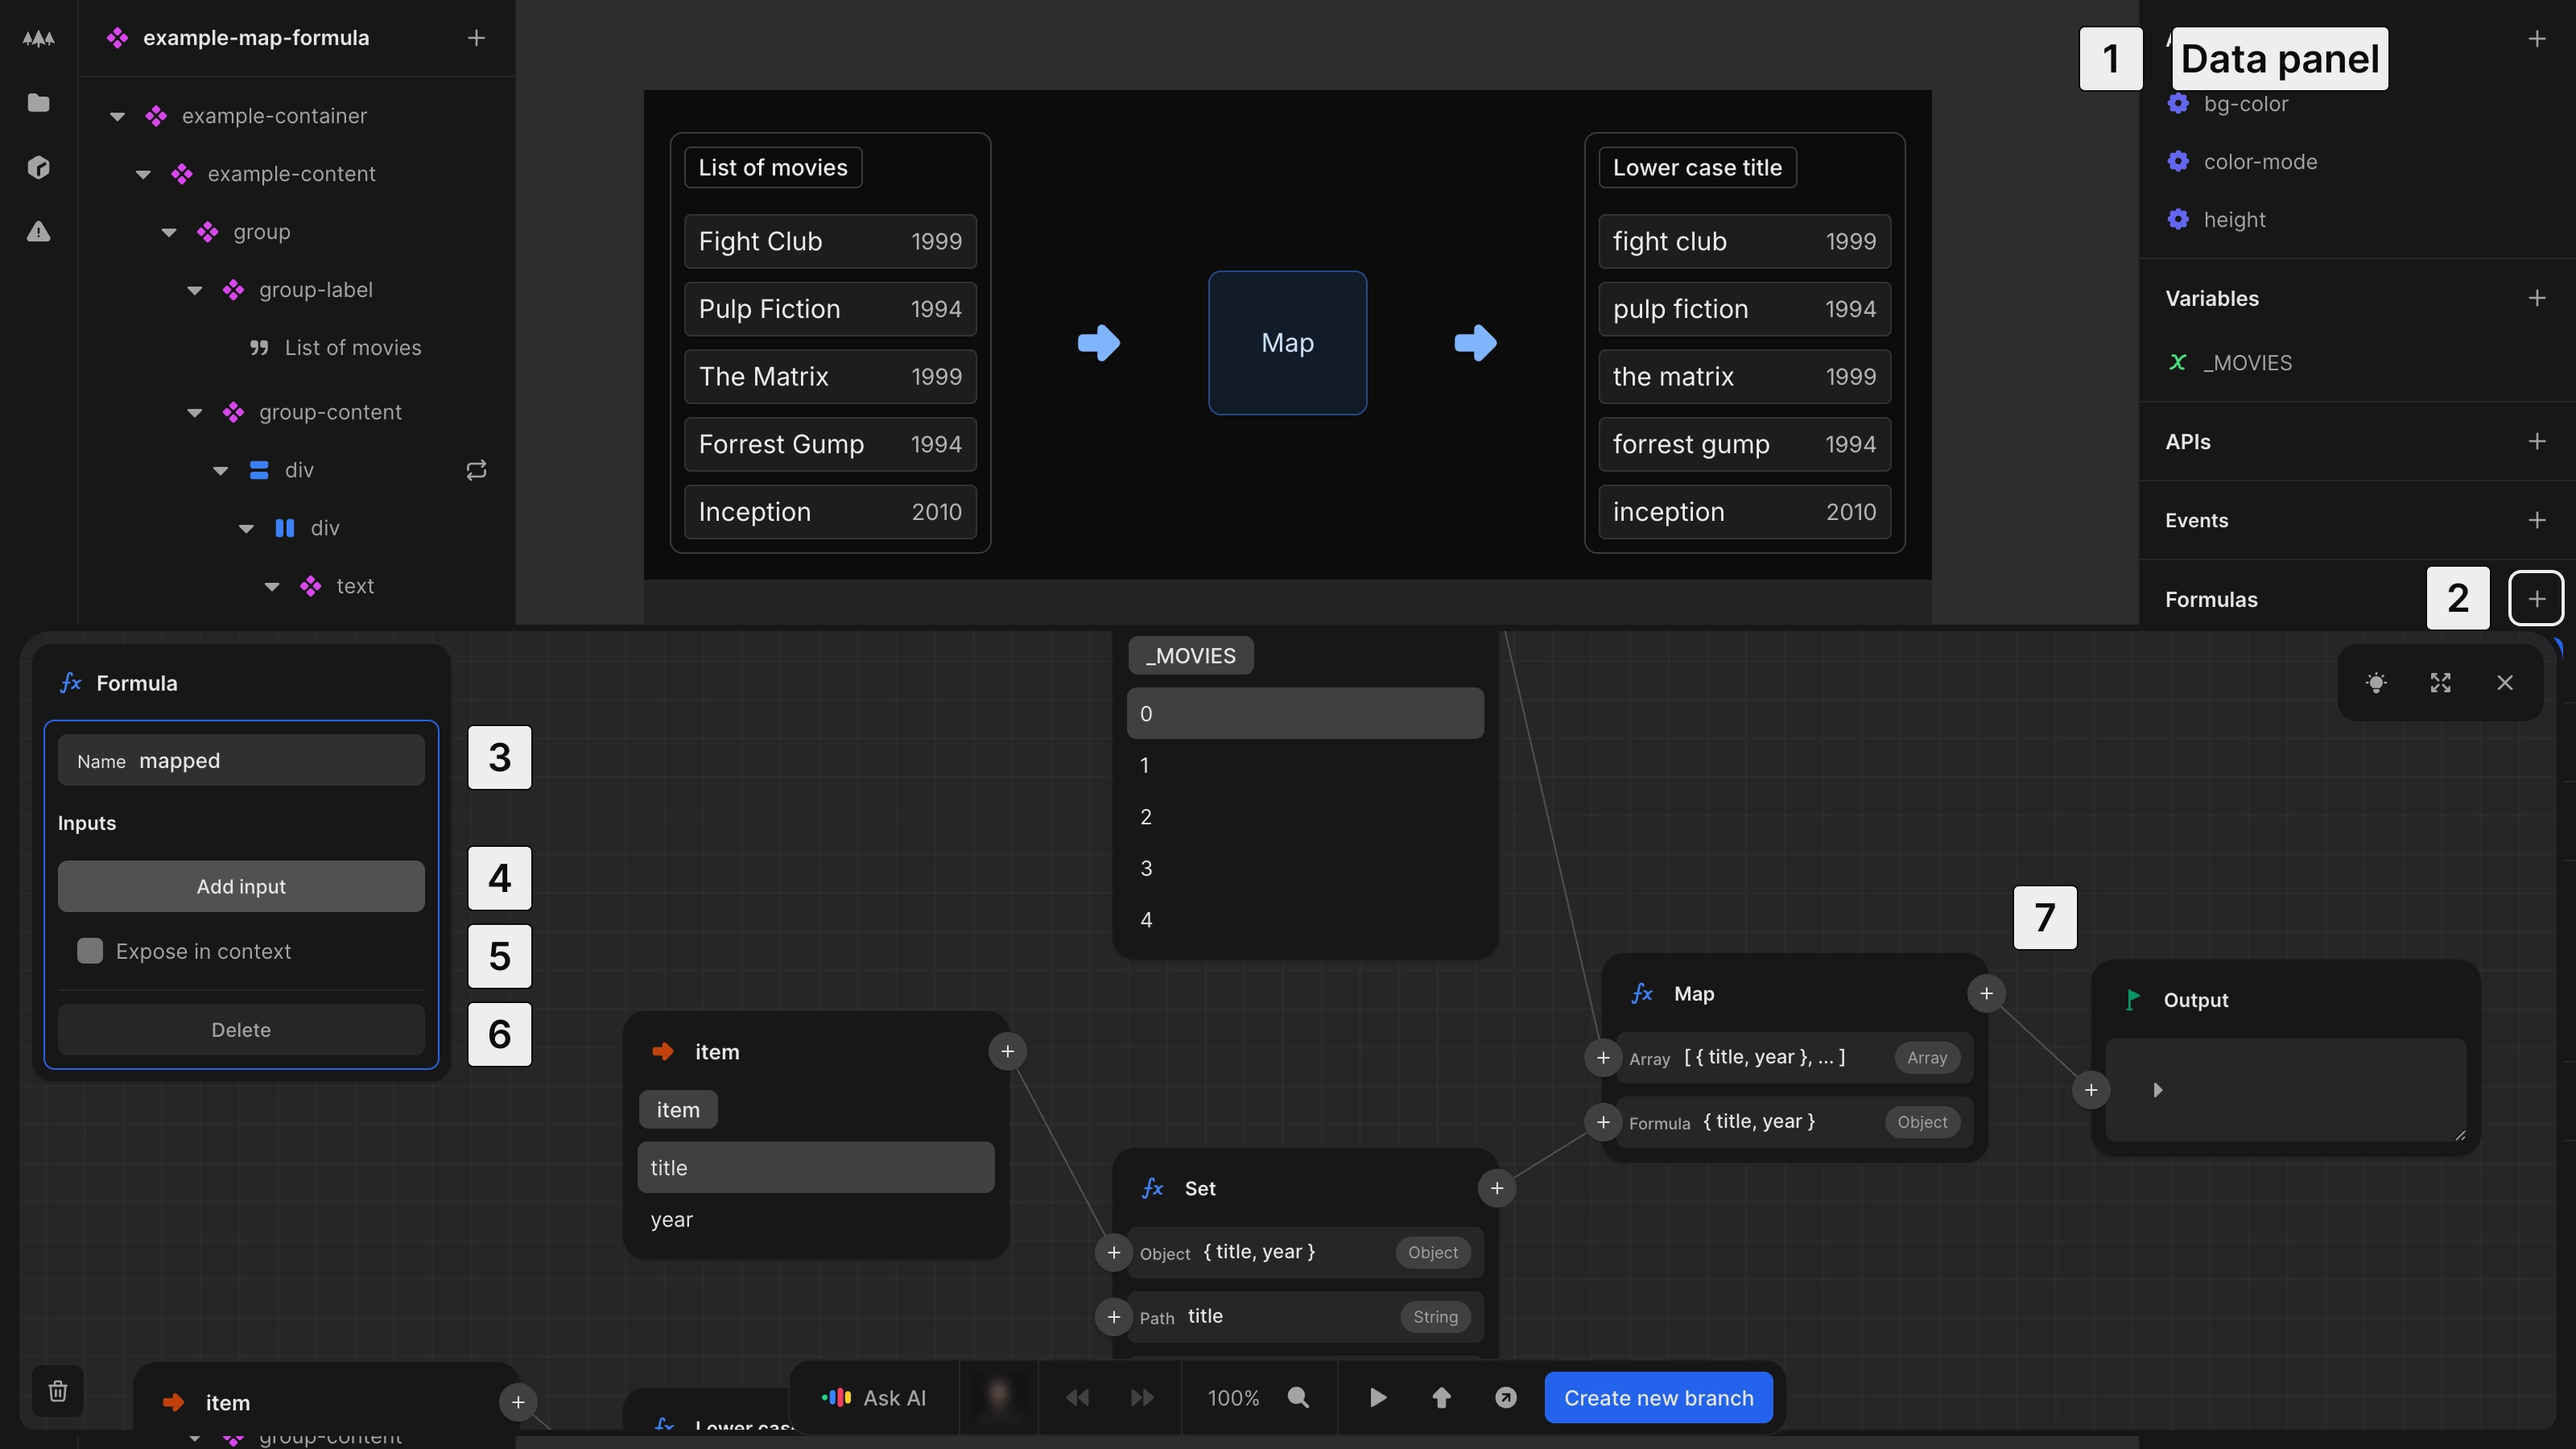
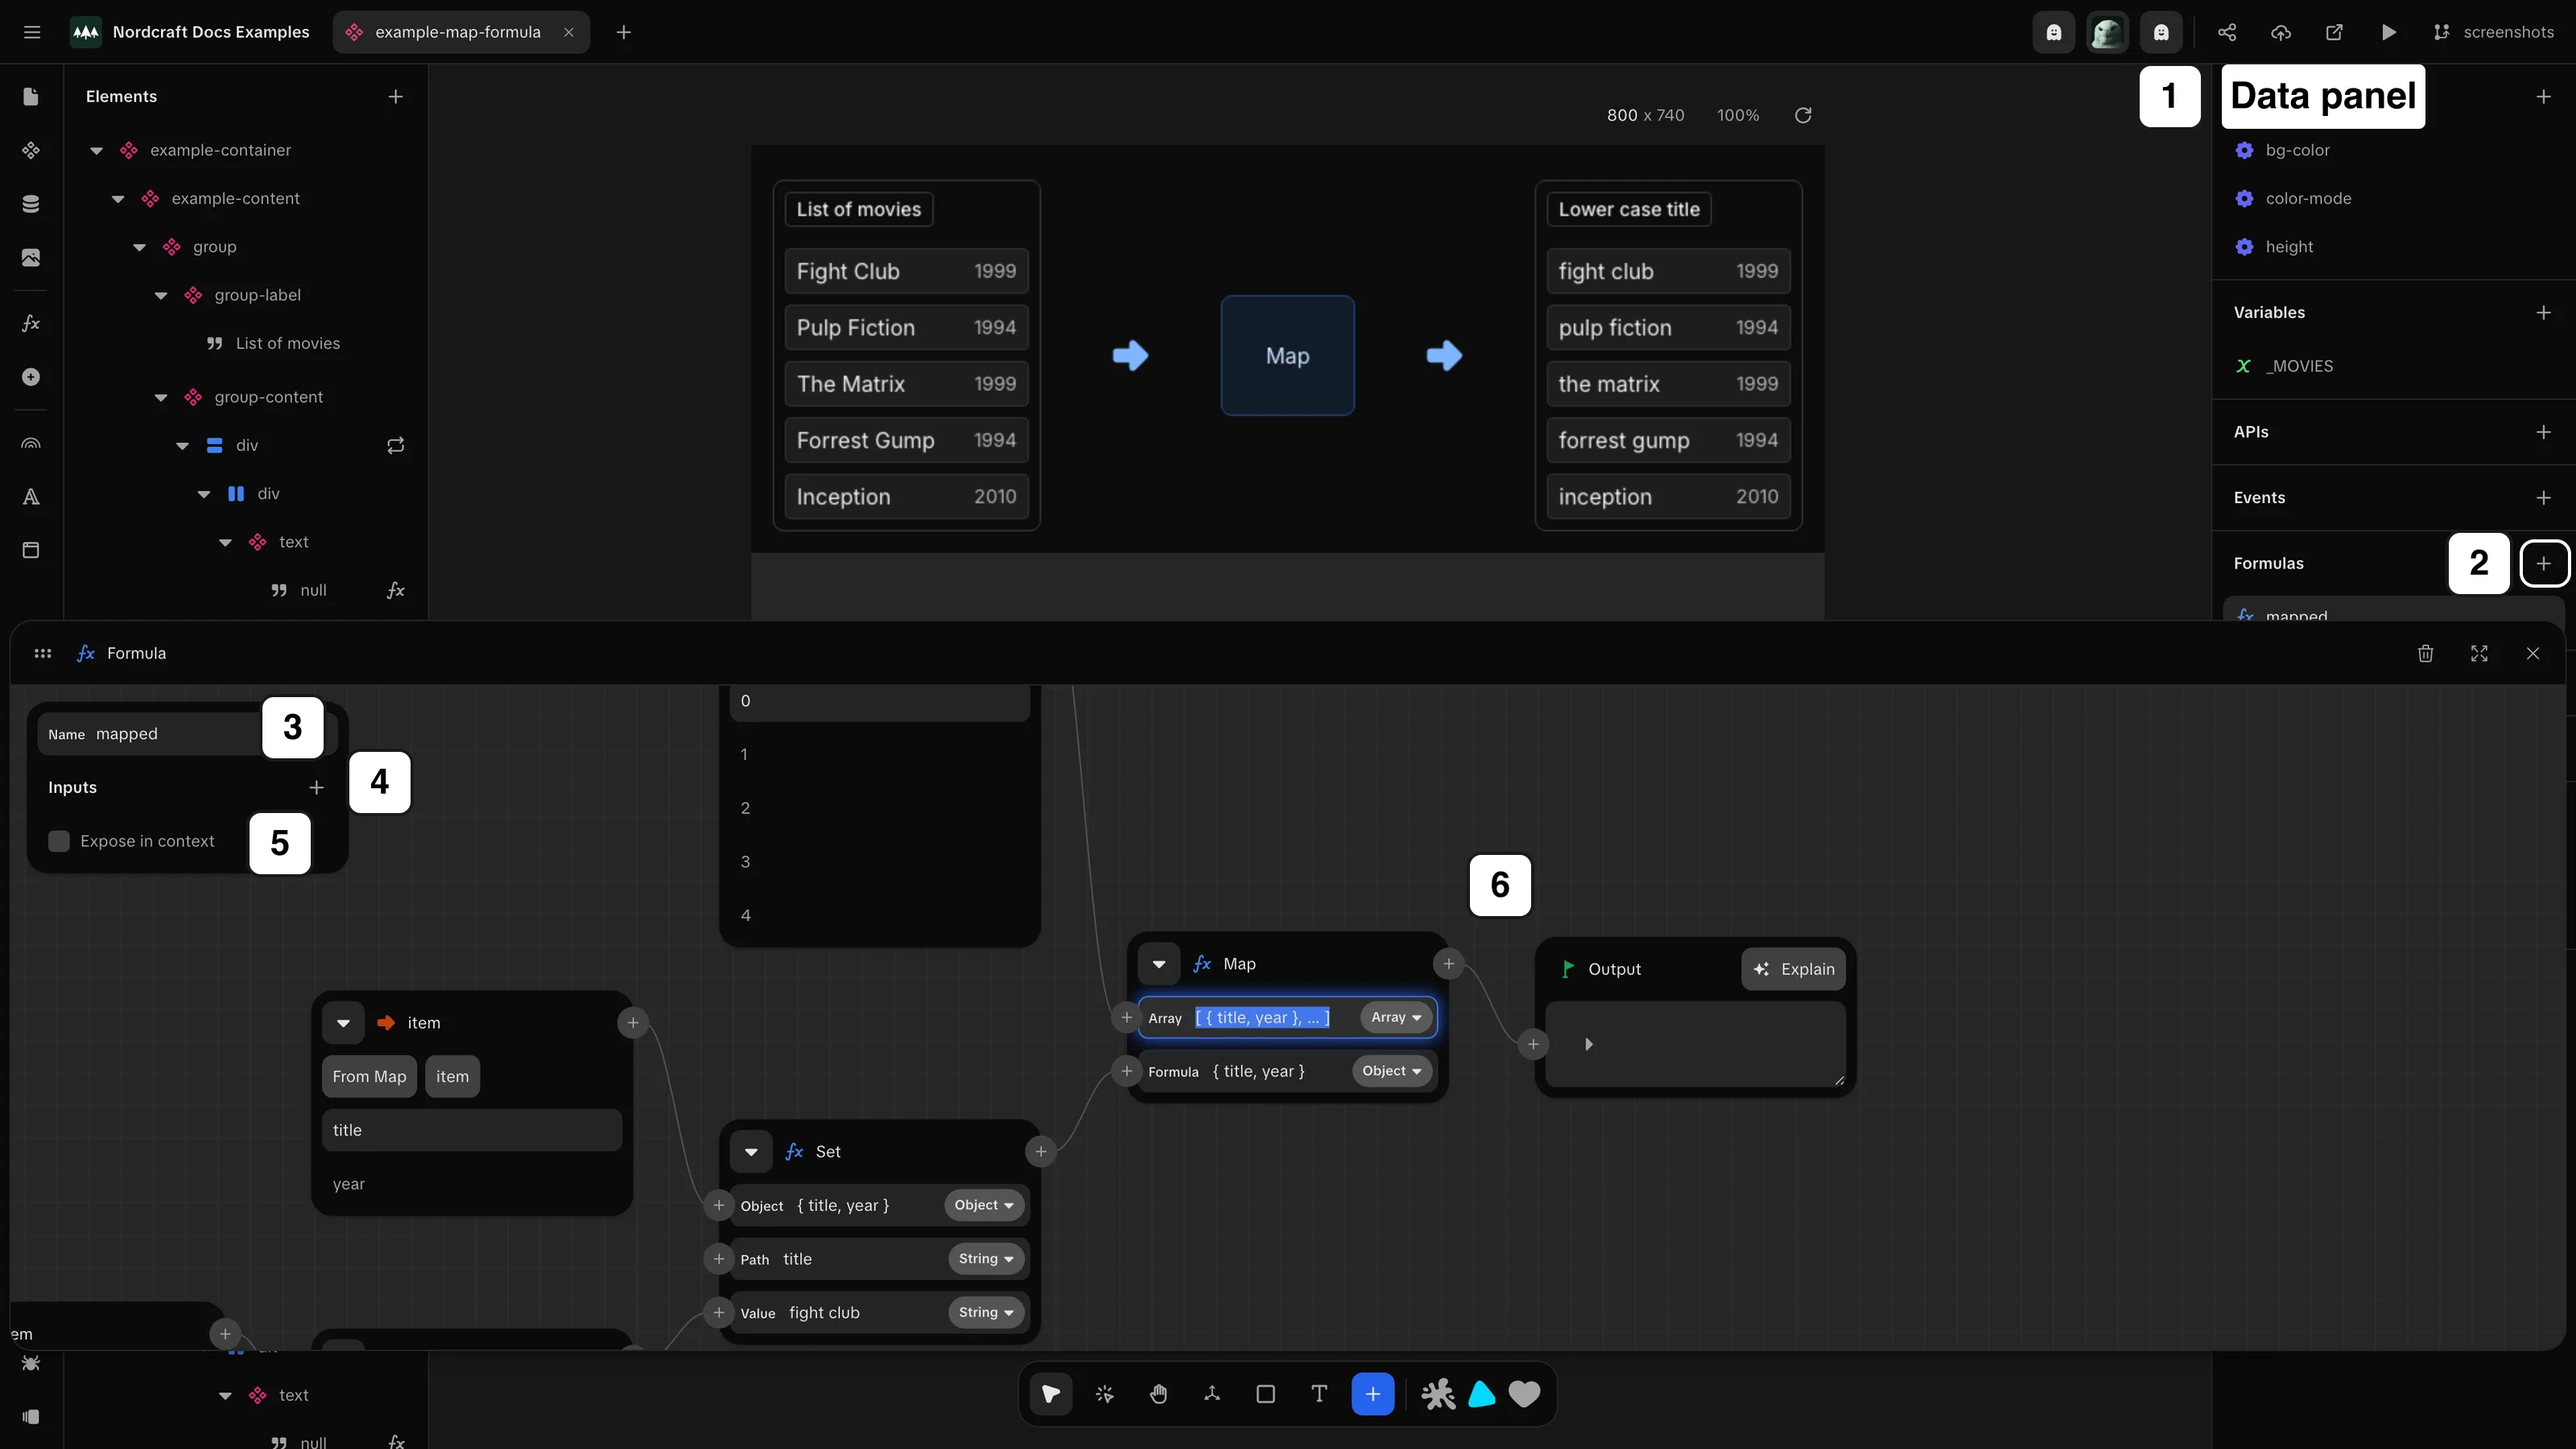
create-a-formula

diff --git a/docs/formulas/working-with-formulas/create-a-formula.screenshot.ts b/docs/formulas/working-with-formulas/create-a-formula.screenshot.ts
@@ -1,0 +1,64 @@
+import { defineScreenshot } from '@/scripts/capture-screenshots'
+import type { Page } from 'playwright'
+
+// Placeholder script for create-a-formula.webp
+export default defineScreenshot({
+  path: '/projects/docs_examples/branches/screenshots/components/example-map-formula?mode=design&canvas-tool=select&canvas-width=800&selection=formulas.2q0_dN.formula&rightpanel=attributes',
+  setup: async (page: Page) => {
+    await page.waitForTimeout(500)
+    await page.locator('#formula-editor').click()
+    await page.waitForTimeout(500)
+  },
+  annotations: [
+    {
+      type: 'badge',
+      x: 664,
+      y: 20,
+      text: '1',
+    },
+    {
+      type: 'badge',
+      x: 760,
+      y: 165,
+      text: '2',
+    },
+    {
+      type: 'badge',
+      x: 81,
+      y: 216,
+      text: '3',
+    },
+    {
+      type: 'badge',
+      x: 108,
+      y: 233,
+      text: '4',
+    },
+    {
+      type: 'badge',
+      x: 77,
+      y: 252,
+      text: '5',
+    },
+    {
+      type: 'badge',
+      x: 456,
+      y: 265,
+      text: '6',
+    },
+    {
+      type: 'text',
+      x: 690,
+      y: 20,
+      text: 'Data panel',
+    },
+    {
+      type: 'box',
+      x: 783,
+      y: 168,
+      width: 15,
+      height: 14,
+      rx: 4,
+    },
+  ],
+})

diff --git a/docs/formulas/working-with-formulas/index.md b/docs/formulas/working-with-formulas/index.md
@@ -18,8 +18,7 @@ To create a new formula in Nordcraft:
 3. Enter a name for your formula
 4. (Optional) Add inputs with test values to use while building the formula
 5. (Optional) Expose the formula in context to make it available to child components
-6. (Optional) Delete the formula when it is no longer needed
-7. Define the formula logic using the formula editor
+6. Define the formula logic using the formula editor
 
 ::: tip
 Test values for formula inputs are useful during development as they allow you to verify your formula works correctly without needing to set up actual data flows.
